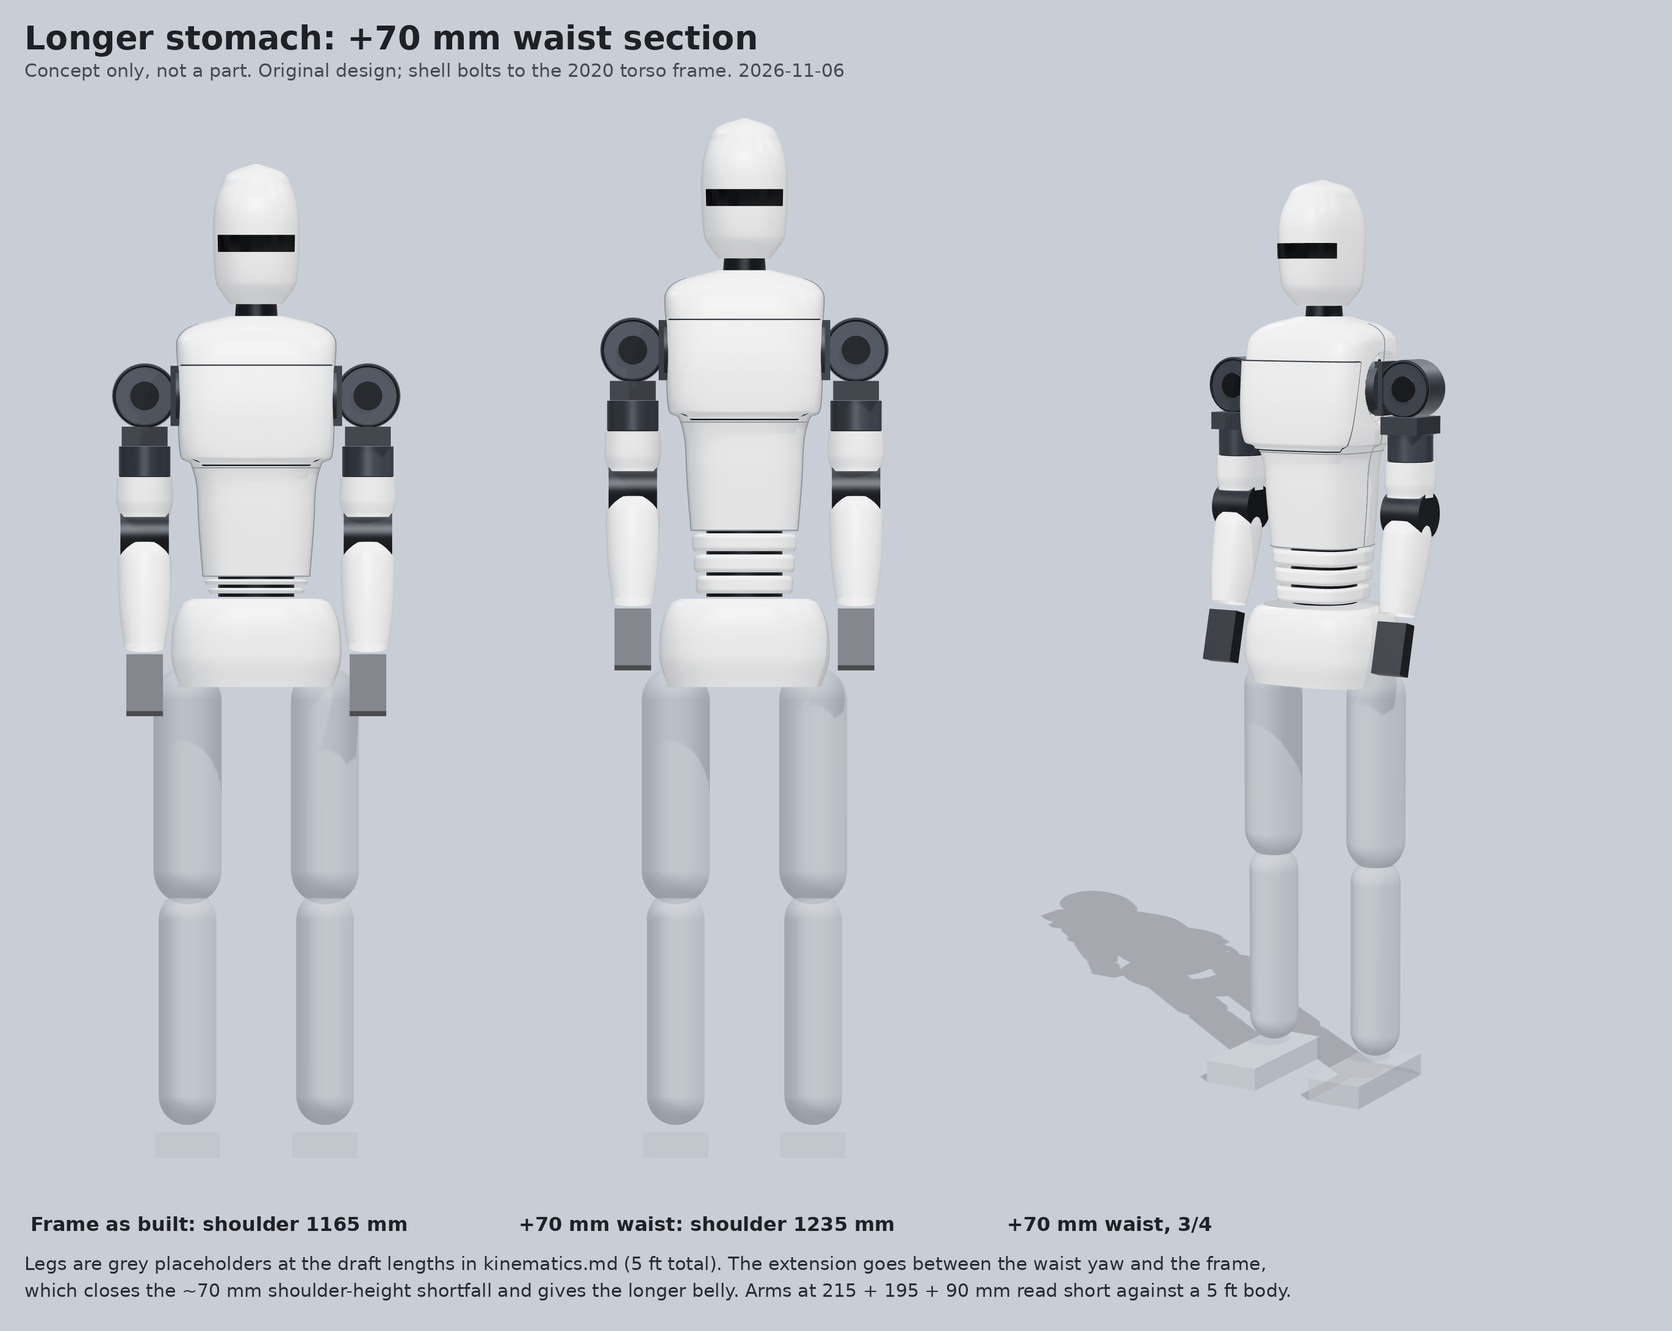
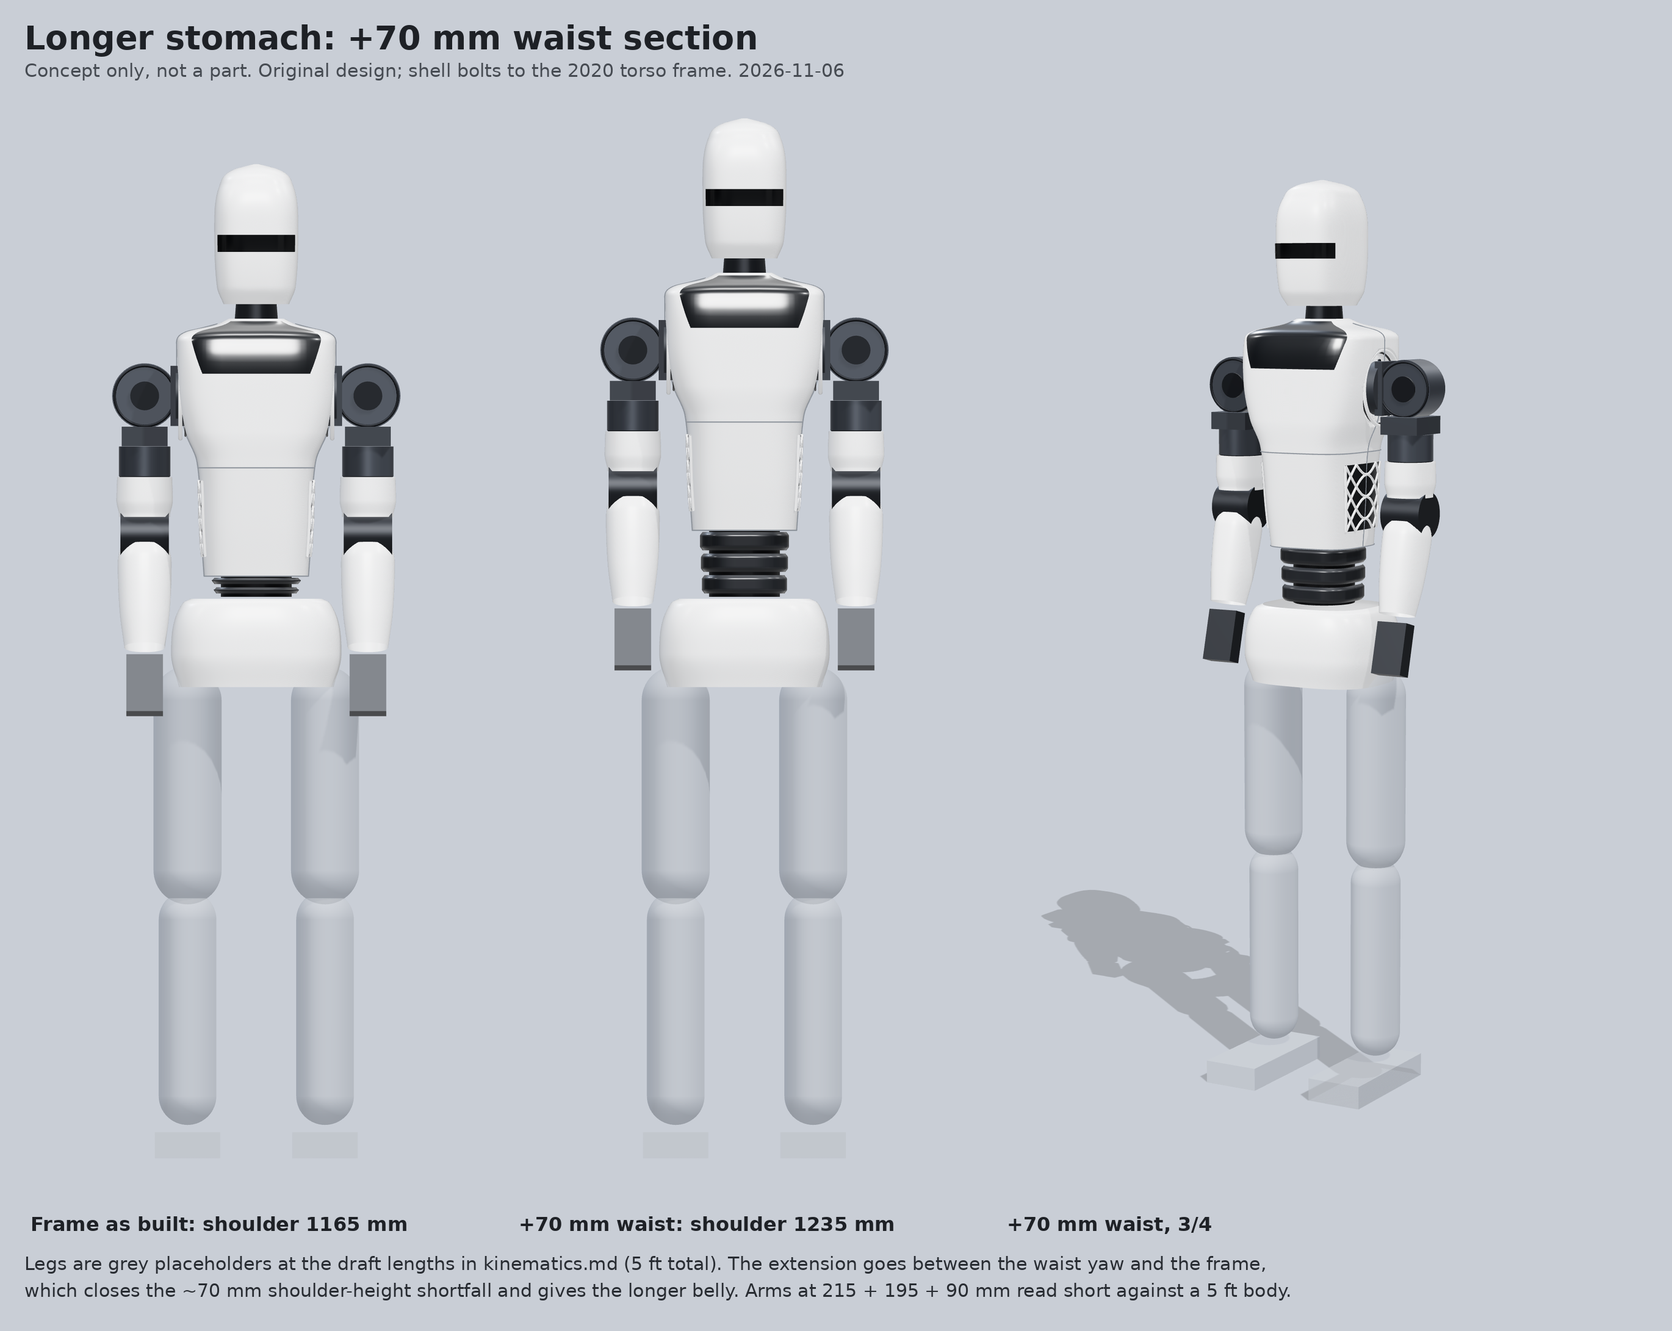
hardware(body-shell): square shoulders, V-taper, slim dark waist
Per Joey's references: heavier male chest block, square shoulder line,
sides relieved to +-90 where the arm hangs, 136 mm dark waist. Collar
interface updated to the unused outboard M4 holes per the arm thread.

Claude-Session: https://claude.ai/code/session_01754Cr9zuADVTu8kWS5Uq1U

diff --git a/hardware/designs/body-shell/concept/generator/scene.js b/hardware/designs/body-shell/concept/generator/scene.js
@@ -45,7 +45,12 @@ const add = (m) => { m.castShadow = true; m.receiveShadow = true; root.add(m); r
 
 // ---------- lofted superellipse shell ----------
 function sgnpow(v, e) { return Math.sign(v) * Math.pow(Math.abs(v), e); }
-function interp(rows, z) { // monotone cubic (Fritsch-Carlson) per column: smooth, no overshoot
+function interp(rows, z) {
+  if (rows.lin) { const n0 = rows.length; if (z <= rows[0][0]) return rows[0].slice(1); if (z >= rows[n0 - 1][0]) return rows[n0 - 1].slice(1);
+    let i0 = 0; while (z > rows[i0 + 1][0]) i0++; const t = (z - rows[i0][0]) / (rows[i0 + 1][0] - rows[i0][0]); return rows[i0].slice(1).map((v, k) => v + (rows[i0 + 1][k + 1] - v) * t); }
+  return interpCubic(rows, z);
+}
+function interpCubic(rows, z) { // monotone cubic (Fritsch-Carlson) per column: smooth, no overshoot
   const n = rows.length; if (z <= rows[0][0]) return rows[0].slice(1); if (z >= rows[n - 1][0]) return rows[n - 1].slice(1);
   let i = 0; while (z > rows[i + 1][0]) i++;
   const out = [];
@@ -60,7 +65,22 @@ function interp(rows, z) { // monotone cubic (Fritsch-Carlson) per column: smoot
   }
   return out;
 }
+// Faceted section (Joey 2026-11-06: less boxy/soft, more masculine): flat pec planes meeting at a sternum
+// crease, chamfered corners, flat back with shoulder-blade planes. th: 0 = +Y side, pi/2 = front, pi = -Y, 3pi/2 = back.
+const QF = [[0, 1], [0.35, 1], [0.82, 0.86], [1.0, 0.42], [0.94, 0]];
+const QB = [[0, 1], [-0.42, 1], [-0.88, 0.8], [-1.0, 0.34], [-1.0, 0]];
+let FACET = false;
+function facetPt(hw, df, db, th, x0) {
+  let t = ((th % (2 * Math.PI)) + 2 * Math.PI) % (2 * Math.PI); const q = Math.floor(t / (Math.PI / 2)); let f = (t - q * Math.PI / 2) / (Math.PI / 2);
+  const front = q === 0 || q === 1; const Q = front ? QF : QB; const d = front ? df : db;
+  if (q === 1 || q === 3) f = 1 - f; // mirror toward the other side
+  const sy = (q === 0 || q === 3) ? 1 : -1;
+  const k = Math.min(3, Math.floor(f * 4)); const u = f * 4 - k;
+  const ax = Q[k][0] + (Q[k + 1][0] - Q[k][0]) * u, ay = Q[k][1] + (Q[k + 1][1] - Q[k][1]) * u;
+  return [ax * d + x0, sy * ay * hw];
+}
 function ringPt(hw, df, db, n, th, x0 = 0) {
+  if (FACET) return facetPt(hw, df, db, th, x0);
   const c = Math.cos(th), s = Math.sin(th);
   const y = hw * sgnpow(c, 2 / n);
   const x = (s >= 0 ? df : db) * sgnpow(s, 2 / n);
@@ -103,56 +123,32 @@ function seamVert(rows, th, za, zb, x0 = 0, grow = 0.8) {
 // rows: [z, half-width Y, front depth +X, back depth -X, squareness n]
 // frame is +-75 Y, +-70 X. Arm hangs at Y=170 with 15 deg inward roll -> keep side <= ~100 below shoulder.
 const chest = [
-  [F0 - 6, 81, 78, 76, 3.4],
-  [F0 + 90, 88, 88, 80, 3.4],
-  [F0 + 170, 101, 100, 85, 3.6],
-  [ZS - 95, 114, 106, 88, 4.0],
-  [ZS - 40, 118, 108, 88, 4.6],
-  [ZS + 40, 119, 98, 86, 4.8],
-  [ZS + 76, 121, 90, 84, 4.2],
-  [F1 + 20, 118, 84, 80, 3.6],
-  [F1 + 38, 94, 66, 68, 3.0],
-  [F1 + 52, 42, 42, 46, 2.4],
+  [F0 - 6, 79, 80, 76, 3.6],
+  [ZS - 200, 84, 92, 80, 3.6],
+  [ZS - 100, 90, 104, 85, 3.8],   // arm-tube band (100-200 mm below the shoulder axis): sides <= +-90
+  [ZS - 55, 108, 108, 88, 4.2],
+  [ZS + 10, 120, 108, 88, 4.6],
+  [F1 + 12, 121, 100, 88, 4.8],   // square shoulder line
+  [F1 + 28, 106, 88, 82, 4.2],
+  [F1 + 38, 64, 60, 64, 3.0],
+  [F1 + 48, 42, 44, 46, 2.4],
 ];
 // shoulder socket: inside radius SOCK_R of the pitch axis the shell side steps in to the RS03 face (Y = +-97),
 // so the rotating P1 and roll RS03 (sweep radius ~57 mm) never touch it
 const SOCK_R = 62;
-const socket = (x, y, z) => { const r = Math.hypot(x, z - ZS); return (r < SOCK_R && Math.abs(y) > 97.5) ? [x, Math.sign(y) * 97.5, z] : [x, y, z]; };
+const socket = (x, y, z) => { const r = Math.hypot(x, z - ZS); if (Math.abs(y) <= 97.5) return [x, y, z];
+  const t = Math.min(1, Math.max(0, (r - SOCK_R) / 7)); const k = t * t * (3 - 2 * t);
+  return [x, Math.sign(y) * (97.5 + (Math.abs(y) - 97.5) * k), z]; };
 const SEAM_Z = F0 + 160;
 CLAMP = socket;
-loft(chest, SEAM_Z, F1 + 52, white, 240, 200, 4, 0, Math.PI, 'chest upper front', [110, 0, 60]);
-loft(chest, SEAM_Z, F1 + 52, white, 240, 200, 4, Math.PI, 2 * Math.PI, 'chest upper back', [-110, 0, 60]);
+loft(chest, SEAM_Z, F1 + 48, white, 240, 200, 4, 0, Math.PI, 'chest upper front', [110, 0, 60]);
+loft(chest, SEAM_Z, F1 + 48, white, 240, 200, 4, Math.PI, 2 * Math.PI, 'chest upper back', [-110, 0, 60]);
 loft(chest, F0 - 6, SEAM_Z, white, 50, 80, 4, 0, Math.PI, 'chest lower front', [110, 0, -40]);
 loft(chest, F0 - 6, SEAM_Z, white, 50, 80, 4, Math.PI, 2 * Math.PI, 'chest lower back (service hatch)', [-110, 0, -40]);
 CLAMP = null;
 if (!EXPLODE) { seamRing(chest, SEAM_Z, 4);
 seamRing(chest, F0 - 6 + 0.5, 4);
 seamVert(chest, 0, F0 - 6, F1 + 40, 4); seamVert(chest, Math.PI, F0 - 6, F1 + 40, 4); }
-// raised chest shield (separate panel) on the front only
-{
-  const rows = chest.map(r => [r[0], r[1] + 6, r[2] + 7, r[3], r[4]]);
-  const z0 = F0 + 165, z1 = ZS + 46; const nz = 70, nt = 90; const pos = [], idx = [];
-  for (let i = 0; i <= nz; i++) { const z = z0 + (z1 - z0) * i / nz; const [hw, df, db, n] = interp(rows, z);
-    const u = (z - z0) / (z1 - z0); const span = 0.16 + 0.10 * Math.pow(1 - u, 2); // shield narrows toward the bottom edge
-    for (let j = 0; j <= nt; j++) { const th = Math.PI * (span + (1 - 2 * span) * j / nt); const [x, y] = ringPt(hw, df, db, n, th, 4);
-      const v = P(x, y, z); pos.push(v.x, v.y, v.z); } }
-  for (let i = 0; i < nz; i++) for (let j = 0; j < nt; j++) { const a = i * (nt + 1) + j, b = a + nt + 1; idx.push(a, b, a + 1, b, b + 1, a + 1); }
-  const g = new THREE.BufferGeometry(); g.setAttribute('position', new THREE.Float32BufferAttribute(pos, 3)); g.setIndex(idx); g.computeVertexNormals();
-  g.computeBoundingBox(); { const bb = g.boundingBox; parts.push({ tag: 'chest shield', Xdepth: +(bb.max.z - bb.min.z).toFixed(0), Ywidth: +(bb.max.x - bb.min.x).toFixed(0), Zheight: +(bb.max.y - bb.min.y).toFixed(0) }); }
-  const sm = add(new THREE.Mesh(g, EXPLODE ? new THREE.MeshPhysicalMaterial({ color: 0xbfe0ff, roughness: 0.4, side: THREE.DoubleSide }) : white));
-  if (EXPLODE) { sm.position.z += 230; sm.position.y += 40; }
-  if (!EXPLODE) {
-  // shadow-gap outline around the shield
-  const edge = []; const rowsE = chest.map(r => [r[0], r[1] + 2, r[2] + 2.5, r[3], r[4]]);
-  const spanAt = (z) => { const u = (z - z0) / (z1 - z0); return 0.16 + 0.10 * Math.pow(1 - u, 2); };
-  const ptAt = (z, f) => { const [hw, df, db, n] = interp(rowsE, z); const sp = spanAt(z); const [x, y] = ringPt(hw, df, db, n, Math.PI * (sp + (1 - 2 * sp) * f), 4); return P(x, y, z); };
-  for (let i = 0; i <= 40; i++) edge.push(ptAt(z0 + (z1 - z0) * i / 40, 0));
-  for (let j = 1; j <= 40; j++) edge.push(ptAt(z1, j / 40));
-  for (let i = 39; i >= 0; i--) edge.push(ptAt(z0 + (z1 - z0) * i / 40, 1));
-  for (let j = 39; j >= 1; j--) edge.push(ptAt(z0, j / 40));
-  add(new THREE.Mesh(new THREE.TubeGeometry(new THREE.CatmullRomCurve3(edge, true, 'centripetal'), 400, 2.2, 6, true), dark));
-  }
-}
 // shoulder: shell side ends flush with the pitch RS03 face (Y = +-97). A printed collar clamps under the
 // RS03 outer-ring bolts; the rotating output and everything outboard stays exposed.
 const act = new THREE.MeshStandardMaterial({ color: 0x5b6068, roughness: 0.35, metalness: 0.75 });
@@ -179,13 +175,47 @@ for (const s of [1, -1]) {
   const yaw = new THREE.Mesh(new THREE.CylinderGeometry(39.25, 39.25, 45.5, 64), act); yaw.position.copy(P(0, s * YS, ZS - 100)); add(yaw);
   const yr = new THREE.Mesh(new THREE.TorusGeometry(37, 2, 10, 64), actDark); yr.rotation.x = Math.PI / 2; yr.position.copy(P(0, s * YS, ZS - 122)); add(yr);
 }
+// ---- details from Joey's references: socket bezel, dark yoke panel, side lattice vents ----
+const darkGloss = new THREE.MeshPhysicalMaterial({ color: 0x1d2024, roughness: 0.25, metalness: 0.2, clearcoat: 0.8, side: THREE.DoubleSide });
+function patch(rows, z0, z1, thA, thB, grow, mat, x0 = 4, clamp = null) {
+  const nz = 60, nt = 60, pos = [], idx = [];
+  for (let i = 0; i <= nz; i++) { const z = z0 + (z1 - z0) * i / nz; const [hw, df, db, n] = interp(rows, z);
+    for (let j = 0; j <= nt; j++) { const th = thA(z) + (thB(z) - thA(z)) * j / nt; let [x, y] = ringPt(hw + grow, df + grow, db + grow, n, th, x0); let zz = z;
+      if (clamp) [x, y, zz] = clamp(x, y, z); const v = P(x, y, zz); pos.push(v.x, v.y, v.z); } }
+  for (let i = 0; i < nz; i++) for (let j = 0; j < nt; j++) { const a2 = i * (nt + 1) + j, b2 = a2 + nt + 1; idx.push(a2, b2, a2 + 1, b2, b2 + 1, a2 + 1); }
+  const g = new THREE.BufferGeometry(); g.setAttribute('position', new THREE.Float32BufferAttribute(pos, 3)); g.setIndex(idx); g.computeVertexNormals();
+  return add(new THREE.Mesh(g, mat));
+}
+if (!EXPLODE && !XRAY) {
+  // dark yoke panel across the upper chest under the neck (front), tapering to a point toward the chest
+  patch(chest, ZS + 34, F1 + 44, z => Math.PI * (0.5 - 0.13 - 0.12 * (z - ZS - 34) / (F1 + 10 - ZS)), z => Math.PI * (0.5 + 0.13 + 0.12 * (z - ZS - 34) / (F1 + 10 - ZS)), 1.2, darkGloss);
+  // socket bezel: raised white ring around each shoulder opening + dark shadow gap
+  for (const sd of [1, -1]) {
+    const bz = new THREE.Mesh(new THREE.TorusGeometry(SOCK_R + 3, 3.2, 14, 96), white); bz.rotation.y = Math.PI / 2; bz.position.copy(P(0, sd * 116, ZS)); add(bz);
+    const gap = new THREE.Mesh(new THREE.TorusGeometry(SOCK_R - 1, 1.6, 10, 96), darkGloss); gap.rotation.y = Math.PI / 2; gap.position.copy(P(0, sd * 108, ZS)); add(gap);
+  }
+  // side lattice vents on the lower chest: dark opening + white diamond ribs
+  for (const sd of [0, Math.PI]) {
+    const zA = F0 + 25, zB = F0 + 140, w = 0.15 * Math.PI;
+    patch(chest, zA, zB, () => sd - w, () => sd + w, 0.8, darkGloss);
+    const rib = (f0, f1) => { const pts = []; const ua = Math.max(0, Math.min((0 - f0) / (f1 - f0), (1 - f0) / (f1 - f0))), ub = Math.min(1, Math.max((0 - f0) / (f1 - f0), (1 - f0) / (f1 - f0))); if (ub - ua < 0.05) return;
+      for (let i = 0; i <= 30; i++) { const u = ua + (ub - ua) * i / 30; const z = zA + (zB - zA) * u; const f = f0 + (f1 - f0) * u;
+      const [hw, df, db, n] = interp(chest, z); const [x, y] = ringPt(hw + 1.8, df + 1.8, db + 1.8, n, sd - w + 2 * w * f, 4); pts.push(P(x, y, z)); }
+      add(new THREE.Mesh(new THREE.TubeGeometry(new THREE.CatmullRomCurve3(pts), 40, 2.4, 8), white)); };
+    for (let k = -3; k <= 3; k++) { rib(k / 3, k / 3 + 1); rib(k / 3 + 1, k / 3); }
+    // frame the vent with a rim
+    for (const f of [0, 1]) { const pts = []; for (let i = 0; i <= 30; i++) { const z = zA + (zB - zA) * i / 30; const [hw, df, db, n] = interp(chest, z);
+      const [x, y] = ringPt(hw + 1.8, df + 1.8, db + 1.8, n, sd - w + 2 * w * f, 4); pts.push(P(x, y, z)); }
+      add(new THREE.Mesh(new THREE.TubeGeometry(new THREE.CatmullRomCurve3(pts), 40, 2.6, 8), white)); }
+  }
+}
 // chest "core" light: subtle accent, original detail
 const core = new THREE.Mesh(new THREE.CylinderGeometry(9, 9, 3, 48), accent);
-core.rotation.x = Math.PI / 2; core.position.copy(P(113.5, 0, ZS - 40)); if (!XRAY) add(core);
+
 
 // neck collar + head placeholder
 const neck = new THREE.Mesh(new THREE.CylinderGeometry(30, 34, 50, 48), dark); neck.position.copy(P(0, 0, F1 + 58)); if (!EXPLODE) add(neck);
-const headRows = [[F1 + 70, 40, 52, 52, 2.2], [F1 + 105, 62, 78, 76, 2.4], [F1 + 190, 66, 84, 80, 2.6], [F1 + 250, 54, 68, 68, 2.4], [F1 + 274, 36, 46, 46, 2.2], [F1 + 284, 4, 4, 4, 2]];
+const headRows = [[F1 + 70, 50, 60, 58, 3.4], [F1 + 96, 60, 76, 72, 3.6], [F1 + 190, 64, 82, 80, 3.6], [F1 + 252, 56, 70, 72, 3.2], [F1 + 276, 34, 44, 46, 2.6], [F1 + 284, 4, 4, 4, 2]];
 if (!EXPLODE) loft(headRows, F1 + 70, F1 + 284, white, 60, 96, 6);
 if (!EXPLODE) { // visor: thin dark strip following head front
   const pos = [], idx = []; const nz = 8, nt = 48;
@@ -198,17 +228,18 @@ if (!EXPLODE) { // visor: thin dark strip following head front
 }
 
 // ---------- ABDOMEN (longer stomach): segmented bands over waist bay + extension ----------
-const abTop = F0 - 10, abBot = WAIST + 8;
+const abMatDef = 1; const abdMat = new THREE.MeshPhysicalMaterial({ color: 0x23262b, roughness: 0.4, metalness: 0.3, clearcoat: 0.5 });
+const abTop = F0 - 8, abBot = WAIST + 8;
 const nb = EXT >= 50 ? 3 : 2; const gap = 5; const bh = (abTop - abBot - gap * (nb - 1)) / nb;
 for (let b = 0; b < nb; b++) {
   const zt = abTop - b * (bh + gap), zb = zt - bh;
   const t = b / Math.max(1, nb - 1);
-  const hw = 80 - 6 * t, df = 80 - 4 * t, db = 76 - 4 * t;
+  const hw = 68 - 3 * t, df = 66 - 2 * t, db = 64 - 2 * t;
   const rows = [[zb, hw - 4, df - 4, db - 4, 3.2], [zb + 6, hw, df, db, 3.2], [zt - 6, hw, df, db, 3.2], [zt, hw - 4, df - 4, db - 4, 3.2]];
-  loft(rows, zb, zt, white, 16, 64, 2, 0, Math.PI, `abdomen band ${b + 1} front`, [90, 0, -40 - 30 * b]);
-  loft(rows, zb, zt, white, 16, 64, 2, Math.PI, 2 * Math.PI, `abdomen band ${b + 1} back`, [-90, 0, -40 - 30 * b]);
+  loft(rows, zb, zt, EXPLODE ? white : abdMat, 16, 64, 2, 0, Math.PI, `abdomen band ${b + 1} front`, [90, 0, -40 - 30 * b]);
+  loft(rows, zb, zt, EXPLODE ? white : abdMat, 16, 64, 2, Math.PI, 2 * Math.PI, `abdomen band ${b + 1} back`, [-90, 0, -40 - 30 * b]);
 }
-const spine = new THREE.Mesh(new THREE.CylinderGeometry(58, 58, abTop - abBot + 10, 48), dark);
+const spine = new THREE.Mesh(new THREE.CylinderGeometry(54, 54, abTop - abBot + 10, 48), alu);
 spine.position.copy(P(0, 0, (abTop + abBot) / 2)); add(spine);
 
 // ---------- PELVIS placeholder (draft 215 x 260 x 115) ----------

diff --git a/hardware/designs/body-shell/concept/generator/compose.py b/hardware/designs/body-shell/concept/generator/compose.py
@@ -21,7 +21,7 @@ def sheet(panels, title, sub, out, notes=None):
         for n in notes: d.text((pad, y), n, font=f(30), fill=(40, 44, 50)); y += 44
     S.save('final/' + out, optimize=True); print(out, S.size)
 sub = 'Concept only, not a part. Original design; shell bolts to the 2020 torso frame. 2026-11-06'
-sheet([(crop('hero.png', (560, 0, 2640, 2400)), 'Broad shoulders wrap the pitch joint; arm mechanics exposed')], 'Marengo body shell, concept B', sub, 'SHELL_CONCEPT_HERO.png')
+sheet([(crop('hero.png', (560, 0, 2640, 2400)), 'Square shoulders, V-taper, slim dark waist; arm mechanics exposed')], 'Marengo body shell, concept B', sub, 'SHELL_CONCEPT_HERO.png')
 sheet([(crop(n + '.png', (900, 0, 2300, 2400), w=900), l) for n, l in [('front', 'Front'), ('side', 'Side (robot left)'), ('back', 'Back')]],
       'Body shell, concept B: front, side, back', sub, 'SHELL_CONCEPT_VIEWS.png')
 sheet([(crop('fullA.png', (1100, 0, 2100, 2400), w=760), 'Frame as built: shoulder 1165 mm'),
@@ -33,7 +33,7 @@ sheet([(crop('fullA.png', (1100, 0, 2100, 2400), w=760), 'Frame as built: should
 sheet([(crop('shoulder.png', (0, 0, 3200, 2400), w=1300), 'Shoulder socket: shell steps in to the RS03 face around the joint'),
        (crop('explode.png', (600, 350, 2600, 2250), w=1000), 'Print panels, exploded')],
       'Body shell, concept B: shoulder interface and P2S panel split', sub, 'SHELL_CONCEPT_PANELS.png',
-      ['Shoulders 242 mm across, tapering to 162 mm at the waist. Around the pitch joint the shell steps in to the RS03 face (Y +-97) inside a 62 mm',
+      ['Shoulders 242 mm across, sides pulled to +-90 where the arm hangs, 158 mm at the chest bottom, 136 mm dark waist. Around the pitch joint the shell steps in to the RS03 face (Y +-97) inside a 62 mm',
        'radius socket, clear of the ~57 mm P1/roll sweep. The collar (114 mm OD) sits in the socket under the RS03 outer-ring bolts; those bolts also',
        'hold the motor to its bracket, so the collar waits on the arm thread. Socket edge is jagged only in this mock-up render.',
-       '13 panels, largest 242 x 232 x 108 mm (chest upper front), all inside the P2S 256 mm cube. Shoulder parts shown are stand-ins.'])
+       '13 panels, largest 242 x 228 x 108 mm (chest upper front), all inside the P2S 256 mm cube. Shoulder parts shown are stand-ins.'])

diff --git a/hardware/designs/body-shell/concept/README.md b/hardware/designs/body-shell/concept/README.md
@@ -3,8 +3,9 @@
 2026-11-06. Concept renders only. This is not a part and is not released for printing.
 
 A white shell over the 2020 torso frame, from Joey's silhouette sketch: a broad chest, a taper to the waist,
-and a longer stomach. Concept B (Joey, 2026-11-06): no shell on the arm's shoulder parts. The torso is broad at the shoulders and
-tapers to the waist (from Joey's markup). Around each pitch joint the shell steps in to the RS03 face (Y ±97)
+and a longer stomach. Concept B (Joey, 2026-11-06): no shell on the arm's shoulder parts; a male build with a heavy chest block,
+square shoulders, a strong V-taper and a slim dark waist (Joey's markup and references). The armor-plate
+breakup Joey described is not in these renders: it gets done in SolidWorks once the silhouette is agreed. Around each pitch joint the shell steps in to the RS03 face (Y ±97)
 inside a 62 mm radius socket and mounts by a collar under the RS03's outer-ring bolts; P1, the roll RS03, P2
 and everything outboard stay exposed. Concept A (deltoid caps) is in git history. The look takes cues from the film reference Joey
 gave (white chest over darker mechanics) but the shapes are original. The renders are a parametric
@@ -24,7 +25,8 @@ mock-up, not SolidWorks; the real panels get modelled on Joey-PC once the look i
 | Frame | 140 deep x 150 wide x 340 tall | `docs/kinematics.md` |
 | Shoulder pitch axis | 424.9 mm above pelvis bottom; output faces at Y ±97 | `docs/kinematics.md` |
 | Arm line | Y ±170.5 | `designs/left-arm/urdf/left_arm.urdf` |
-| Chest shell, widest | 242 mm at the shoulders, 162 mm at the waist | this concept |
+| Chest shell | 242 mm at the shoulders; sides ±90 from 100–200 mm below the shoulder axis; 158 mm at the chest bottom | this concept |
+| Waist (dark bands) | 136 mm wide, 3 bands over the waist yaw RS03 | this concept |
 | Shoulder socket | 62 mm radius around the pitch axis, floor at the RS03 face (Y ±97.5); P1/roll sweep is ~57 mm | this concept |
 | Chest depth | 108 mm front + 88 mm back of frame centre (196 mm) | this concept |
 | Shoulder collar | 114 mm OD, 86 mm ID, about 3 mm, under the RS03 outer-ring bolts | this concept |
@@ -32,7 +34,7 @@ mock-up, not SolidWorks; the real panels get modelled on Joey-PC once the look i
 
 ## Panels (Bambu P2S, 256 x 256 x 256 mm)
 
-13 panels, all inside the build volume. The largest is the chest upper front at 242 x 232 x 108 mm (14 mm margin).
+13 panels, all inside the build volume. The largest is the chest upper front at 242 x 228 x 108 mm (14 mm margin).
 
 - Chest: upper front, upper back, lower front, lower back (magnet-held service hatch for the Pi).
 - Chest shield: separate raised front plate, so it can be printed in a different finish.
@@ -44,12 +46,10 @@ the outer frame slots, M3 heat-set inserts in the panel bosses, lapped seams.
 
 ## Open points
 
-- The RS03 outer-ring bolts also hold the motor to its bracket. The collar is not final until the arm thread's
-  envelope README (`designs/left-arm/envelope/`) confirms which bolts, screw length, thread engagement, and the extra
-  grip a 2–3 mm printed flange needs. Printed plastic under a structural bolt can creep; check that it is acceptable.
-- P1 and the roll RS03 must never sweep into a plane about 3 mm outboard of the pitch housing face.
-- The chest side reaches Y ±114–118 just below the shoulder; the hanging upper arm's inner face is about Y 126. That leaves
-  roughly 8–12 mm at zero roll, so inward roll is close to 0° with this shape. Check against the arm swept envelope.
+- Collar mounting (from the arm thread): the 8 unused outboard M4 holes on the pitch RS03's 98 mm bolt circle, new M4x10
+  button heads, 2–3 mm flange, bore at least 72 mm. P1 stays beyond Y 101.75 from r 24 to 54, so the flange must stay inside that.
+- Sides are pulled in to Y ±90 from 100–200 mm below the shoulder axis, as the arm thread asked (at least 5 mm at 5° inward roll).
+  Re-check once Joey picks the inward roll stop (5° or 15°); see `../../left-arm/envelope/`.
 - The exposed shoulder parts in these renders are simple stand-ins, not the real P1/P2 geometry.
 - At 215 + 195 + 90 mm the arms read short against a 5 ft body in the proportion view.
 - The +70 mm waist section changes the URDF torso height and needs a structural spacer, not just shell.
